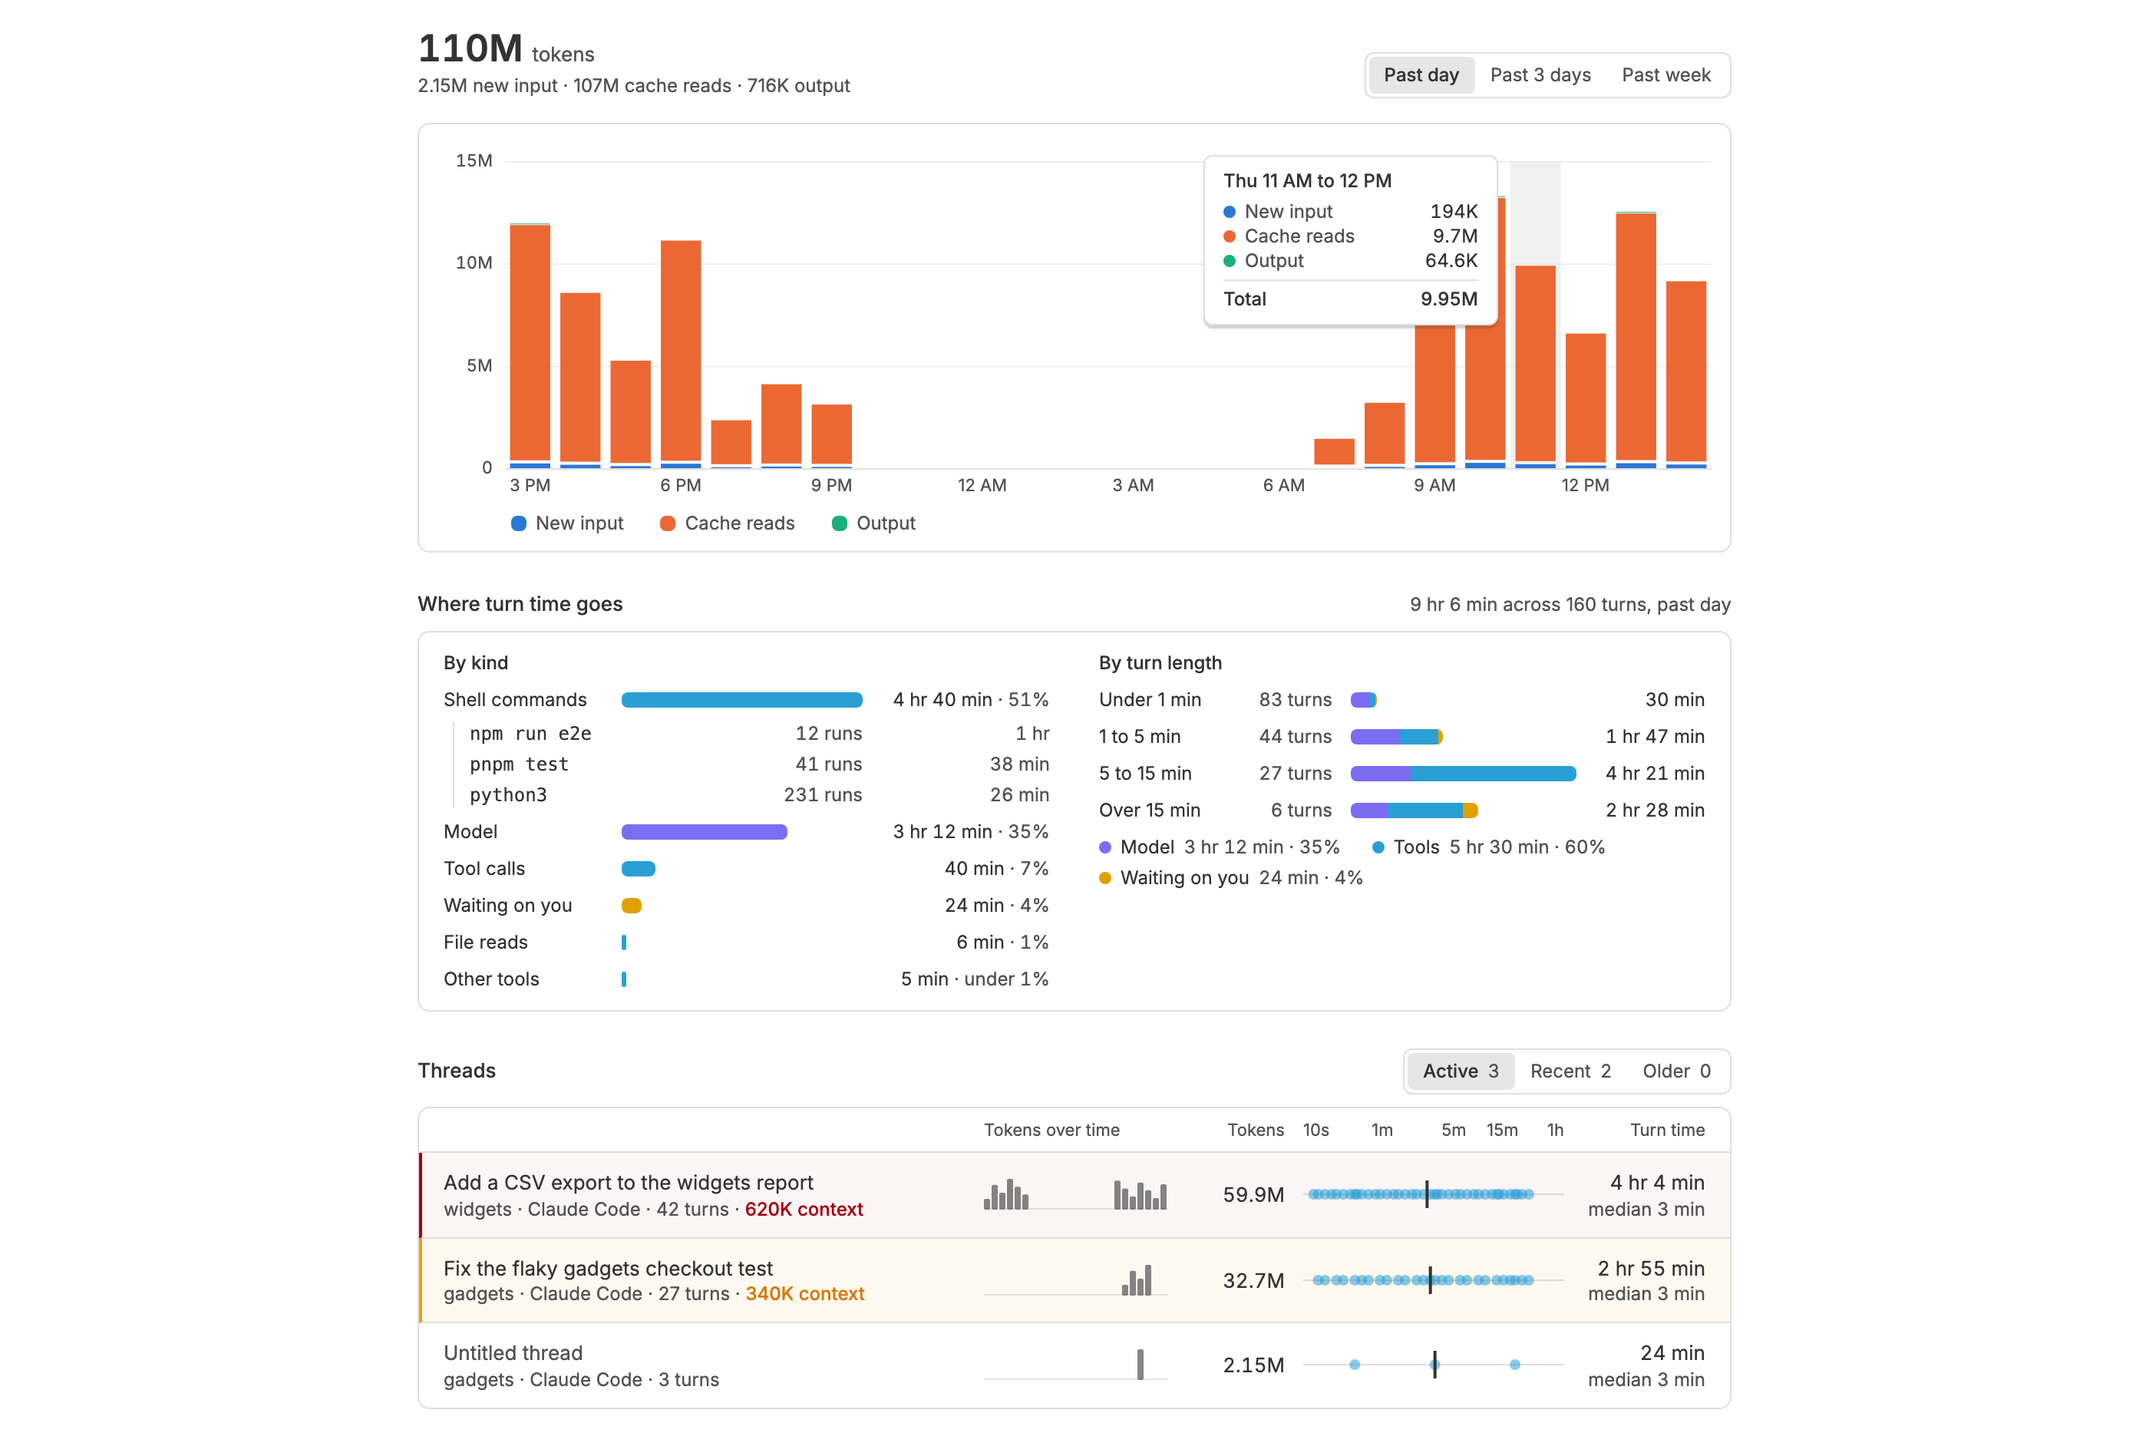
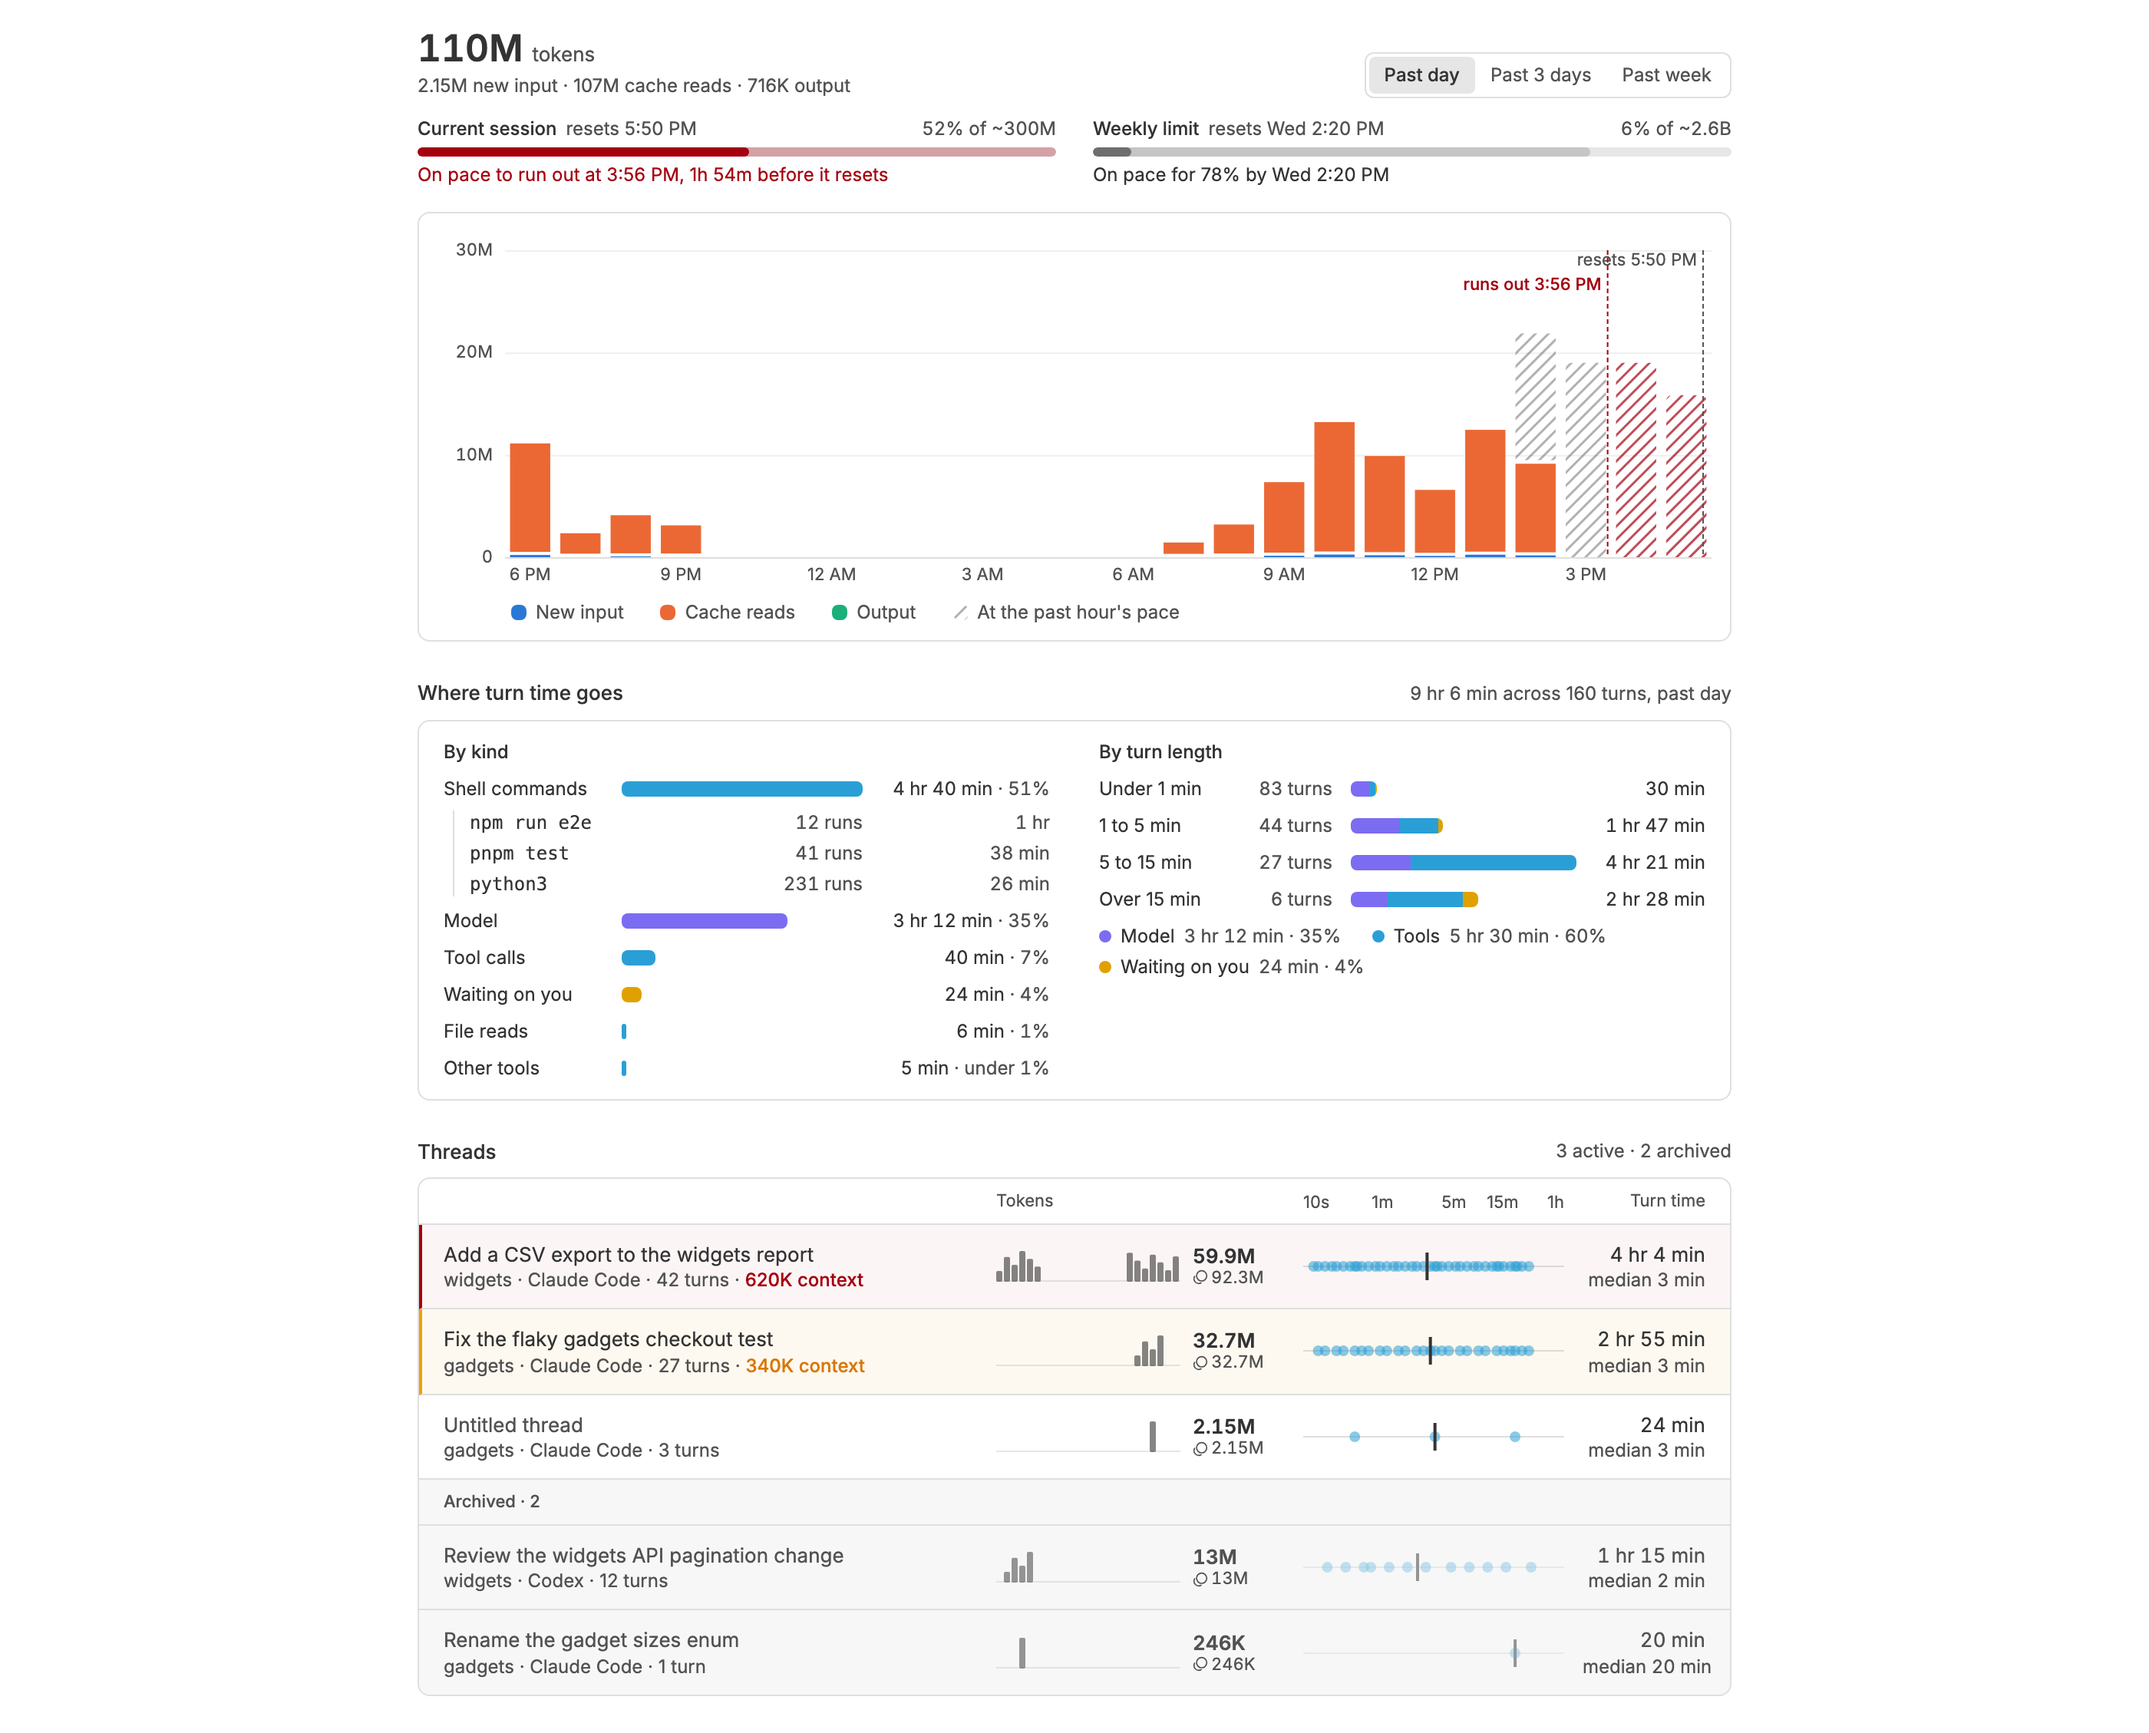
Update plugin entry: tokenomics (#635)
Automated note from a Claude Code agent, posted on behalf of the marketplace maintainer.

Reviewed under the maintainer admission policy. Exact selected plugin sources install and load, required marketplace format passes, and no malware or author self-addition to New and Notable was found. Current-head CI verified green.

diff --git a/overview/tokenomics.md b/overview/tokenomics.md
@@ -1,32 +1,18 @@
 ## What you get
 
-A sparkline and token total in **each thread's header**. Click it for the thread's summary: tokens over time, minutes per turn, and the three turns that used the most. Hover a spike to see which of your messages caused it.
+- **Tokens in each thread's header**: a sparkline of the thread's tokens over time, with its past day and lifetime totals. Click it to see which of your messages used the most tokens and time.
+- **A context meter above the composer** once a thread's context passes 300K tokens, red past 550K, with a **Compact** button. Every model call reads the whole context again, so a large context makes every turn expensive.
+- **Your session in the title bar**: a spark chart of its tokens and rings for the session and the week, amber or red once either is headed for its limit. Hover it for the limits and the past day's chart.
+- **A Tokenomics page** with each usage limit and where it lands at the current pace, tokens by hour or day, where turn time went, and the threads that used the most.
 
-A **context meter above the composer** once a thread's context passes 300K tokens. It turns red past 550K. Every model call reads the whole context again, so at 500K a turn of 40 calls costs 20M tokens. **Compact** asks bb to compact the thread. The sidebar counts these threads in amber and red, so you can find them without opening each one.
+## How it works
 
-A **Tokenomics page** in the sidebar. It charts tokens per hour over the past day or three days, or per day over the past week, split into new input, cache reads, and output. **Where turn time goes** splits turns into the model's time, tools, and waiting on you, and names the slowest shell commands. The thread list ranks threads by tokens, with each one's context size, a sparkline, and a dot per turn showing its length.
+Tokenomics copies each usage event into its own database as bb records it, starting when you install it, and reads Claude Code subagent transcripts from disk. It reads your usage limits from bb every five minutes. It counts tokens, not dollars.
 
-## For scripts and agents
+## For agents
 
-`bb tokenomics threads` lists each thread's tokens, turns, context, turn times, and slowest shell commands, sorted by tokens, time, or context. `bb tokenomics commands` lists the shell commands that took the most time across all threads. Add `--json` to either, so an agent can find expensive threads without reading their transcripts.
-
-## How it counts
-
-bb deletes a thread's older usage events once it has a few hundred newer ones, so Tokenomics copies each event into its own database as it arrives. Turns bb deleted before you installed it can't be recovered, and the page says when a period starts before recording began.
-
-Claude Code subagents report no usage to bb. Tokenomics reads their transcripts on the machine bb runs on and adds their tokens to the thread that ran them.
-
-## Settings
-
-Change the meter's thresholds with `bb plugin config tokenomics set contextWarningAt 300K` and `bb plugin config tokenomics set contextErrorAt 550K`.
-
-## Where it's going
-
-The goal is to weigh each thread's cost against the business value of the work it did. Tokenomics covers the cost today. It doesn't record what a thread produced, so the weighing is up to you.
+`bb tokenomics threads` and `bb tokenomics commands` print the same numbers, with `--json`, so an agent can find expensive threads without reading their transcripts.
 
 ## Requirements
 
-- Works with any provider that reports token usage to bb.
-- Counts tokens, not dollars. No cost estimates or quota view.
-- Counts subagent tokens only for Claude Code threads that ran on the same machine as bb.
-- No account or outside service.
+bb 0.43 or later, and a provider that reports token usage to bb. Usage limits need one that reports them, such as Claude Code or Codex. No account or outside service.
